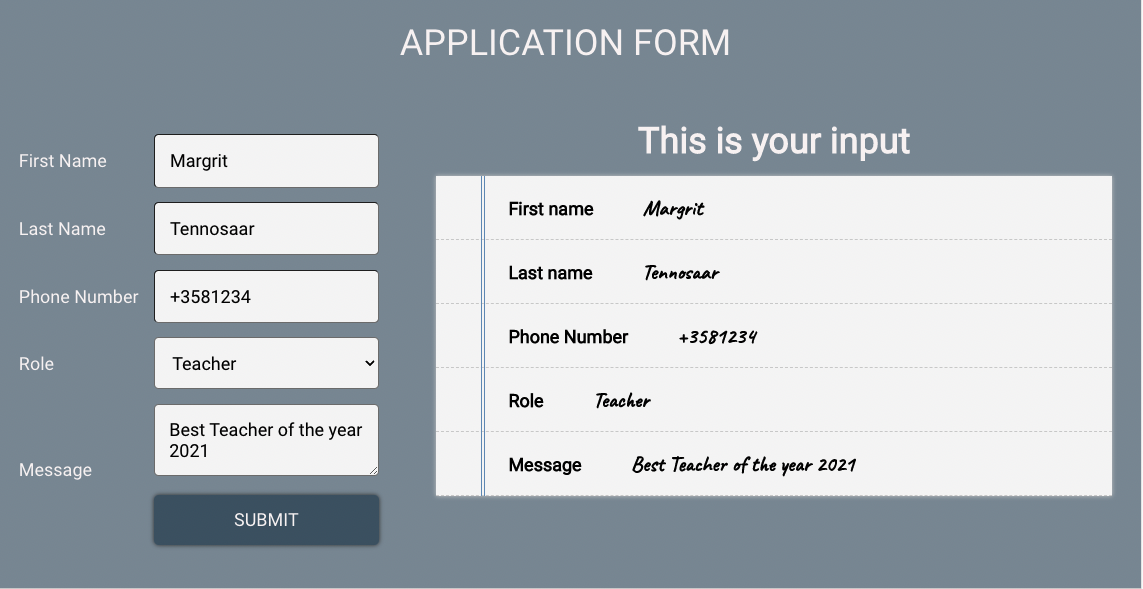
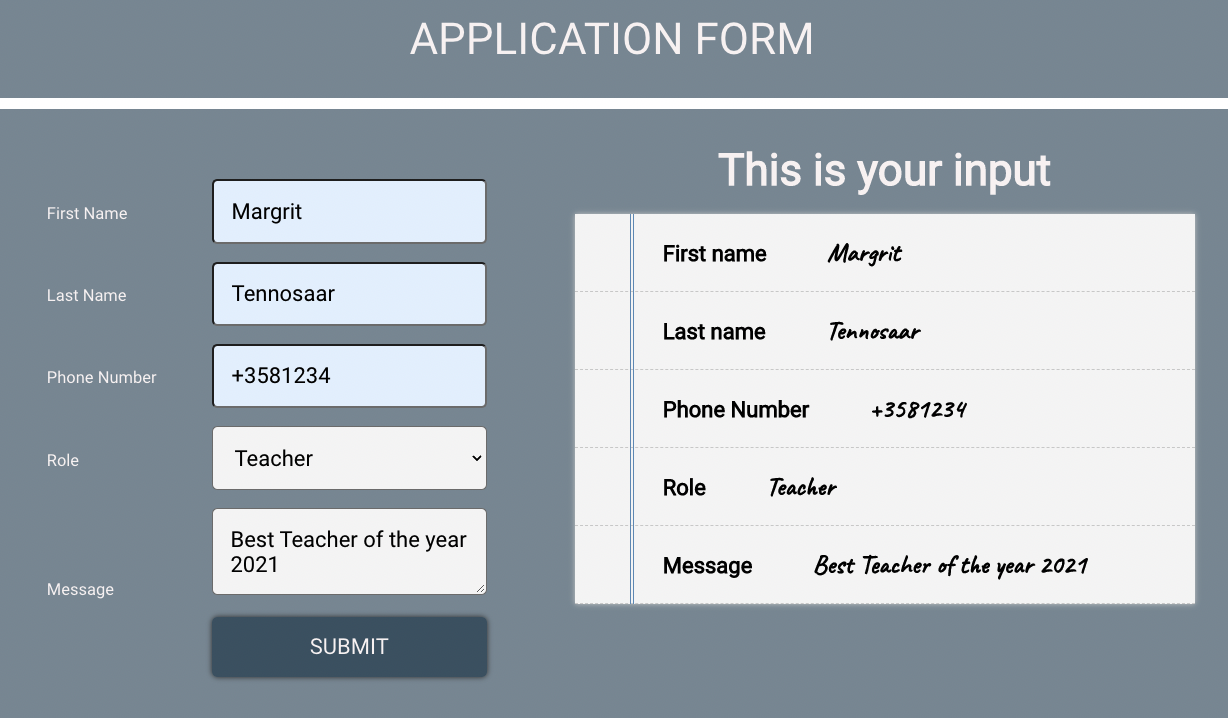
Changes in screenshot

diff --git a/src/components/Form.js b/src/components/Form.js
@@ -25,7 +25,7 @@ const Form = ({submit,change} ) => {
                 <div>
                     <label htmlFor="role">Role</label>
                     <select name="role" id="role" onChange = {change}>
-                        <option value="" >---Select Your Role---</option>
+                        <option value="" >---Select your role---</option>
                         <option value="CEO" >CEO</option>
                         <option value="Developer" >Developer</option>
                         <option value="Teacher">Teacher</option>

diff --git a/src/styles/Form.css b/src/styles/Form.css
@@ -1,9 +1,8 @@
 /* ####### Form Components ##### */
 form{
-   
     color: var(--white);
-    padding: 2rem;
-    font-size: 20px;
+    padding: 3rem;
+    font-size: 15px;
 }
   
   input,
@@ -36,6 +35,7 @@ form{
     width: 250px;
     margin-left: 150px;
     text-transform: uppercase;
+    
   }
   
  .submit input[type="submit"]:hover{
@@ -45,6 +45,7 @@ form{
   .formArea{
     display: flex;
     background-color:var(--bg-color-4);
+    margin-top: 10px;
   }
   
 
